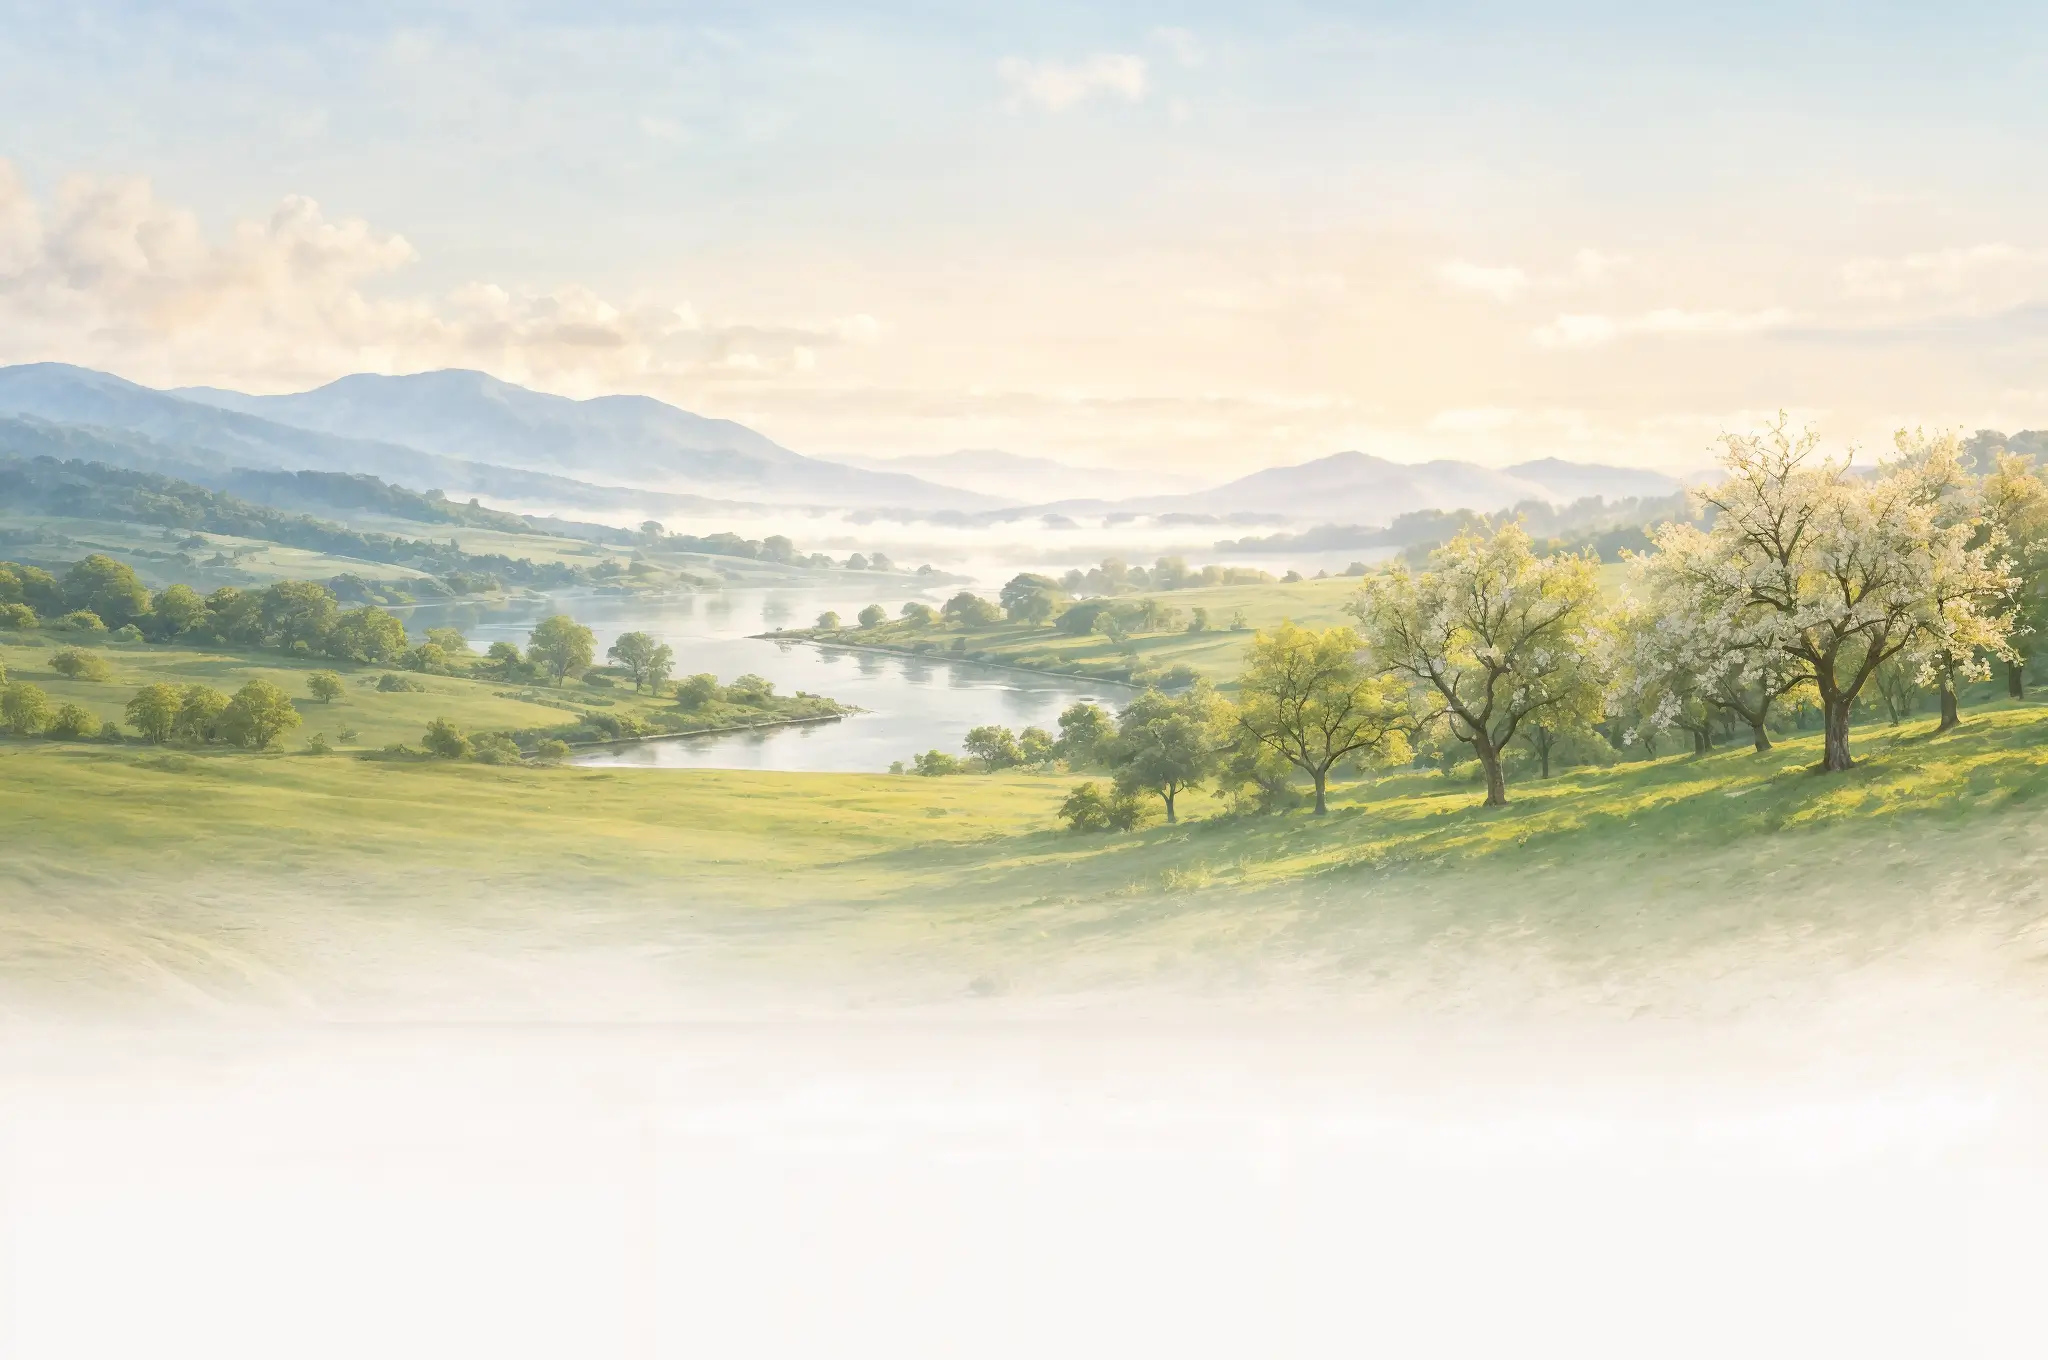
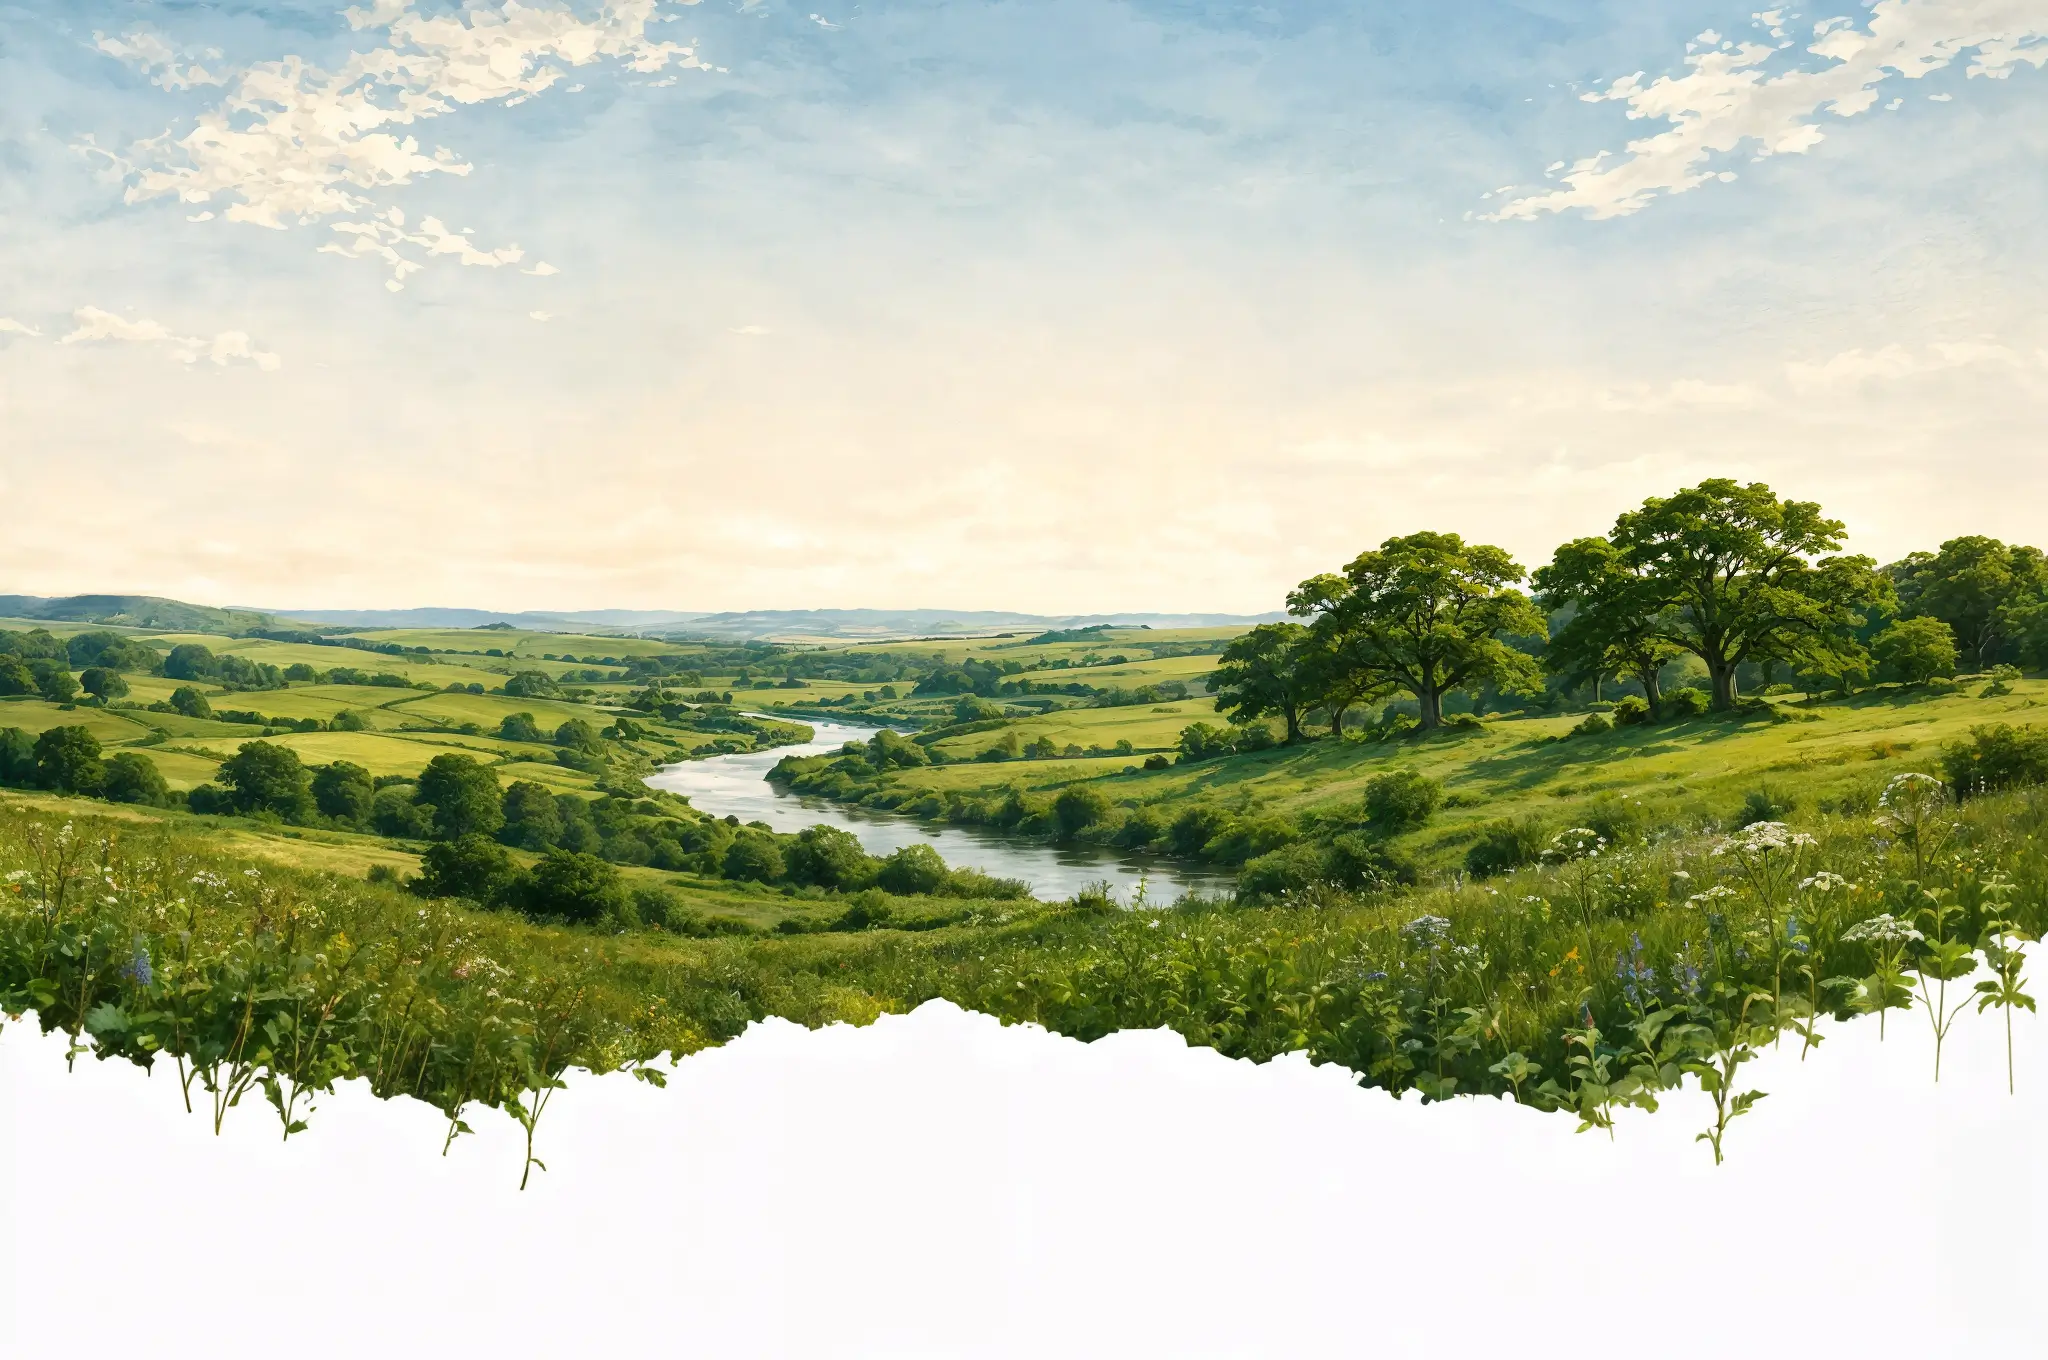
hero: new artwork with a torn painted edge, and no gradients anywhere
The painting now stops on an organic edge with stems hanging into flat white, so
the hero needs no fade, scrim or blur at all: the three .hero-blur layers are
gone. Copy is anchored to the horizon (27.9% of the width less the block height)
so it lands in the sky at every width, the secondary button gets a surface of
its own, and the partner link sits beside the buttons. On phones the sky is too
short for the copy, so the picture becomes a full-bleed band below it and its
torn edge runs straight into the page.

diff --git a/src/styles/global.css b/src/styles/global.css
@@ -143,33 +143,34 @@ section { padding: 108px 56px; }
 
 /* ── HERO ──
    Full-bleed landscape in the manner of a cinematic title card. .hero-media keeps
-   the artwork's own aspect ratio at the full width of the page, flush with the top
-   edge, so nothing is cropped and the white fade painted into the bottom of the
-   picture lands on the page background. The section is at least as tall as the
-   picture (66.41vw = 1360 / 2048). The copy sits high on the sky, on a top padding
-   that scales with the width so it keeps its place in the artwork, capped against
-   the viewport height so the buttons never fall out of the first screen. Replacing the
-   artwork means updating both ratios, and keeping a white bottom quarter. Three
-   progressively stronger blur layers, each masked to a band, soften the picture
-   under the copy. Portrait viewports fall back to a bottom-anchored cover crop. */
-.hero { position: relative; min-height: 66.41vw; display: flex; flex-direction: column; align-items: flex-start; justify-content: flex-start; text-align: left; padding: clamp(112px, 9vw, 172px) 56px 80px; background: var(--warm-white); overflow: hidden; }
+   the artwork's own aspect ratio (2048 / 1360 = 66.41vw) at the full width of the
+   page, flush with the top edge, so nothing is cropped and the section grows with
+   the picture. There is no gradient, scrim or blur anywhere: the painting itself
+   stops on a torn organic edge and gives way to flat white, which lands on the
+   page background. Any replacement must carry that edge and match both ratios.
+   The copy is anchored to the horizon: the top padding is the horizon's position
+   (27.9% of the width, being 42% of the picture's height) less the height of the
+   copy block, with a floor that clears the nav. So the block lands in the sky at
+   every width. Portrait viewports fall back to a cover crop. */
+.hero { position: relative; min-height: 66.41vw; display: flex; flex-direction: column; align-items: flex-start; justify-content: flex-start; text-align: left; padding: max(104px, calc(27.9% - 372px)) 56px 80px; background: var(--warm-white); overflow: hidden; }
 .hero-media { position: absolute; top: 0; left: 0; width: 100%; height: auto; aspect-ratio: 2048 / 1360; overflow: hidden; z-index: 0; background: linear-gradient(180deg, var(--cream) 0%, var(--sage-pale) 100%); }
 .hero-img { position: absolute; inset: 0; width: 100%; height: 100%; object-fit: cover; object-position: center top; display: block; }
-.hero-blur { position: absolute; inset: 0; background-image: var(--hero-image); background-size: cover; background-position: center top; pointer-events: none; }
-.hero-blur.is-1 { filter: blur(2px);  -webkit-mask-image: linear-gradient(to bottom, rgba(0,0,0,0) 56%, #000 70%, #000 100%); mask-image: linear-gradient(to bottom, rgba(0,0,0,0) 56%, #000 70%, #000 100%); }
-.hero-blur.is-2 { filter: blur(6px);  -webkit-mask-image: linear-gradient(to bottom, rgba(0,0,0,0) 72%, #000 84%, #000 100%); mask-image: linear-gradient(to bottom, rgba(0,0,0,0) 72%, #000 84%, #000 100%); }
-.hero-blur.is-3 { filter: blur(14px); -webkit-mask-image: linear-gradient(to bottom, rgba(0,0,0,0) 86%, #000 96%, #000 100%); mask-image: linear-gradient(to bottom, rgba(0,0,0,0) 86%, #000 96%, #000 100%); }
 .hero-inner { position: relative; z-index: 1; width: 100%; max-width: 1120px; margin: 0 auto; }
 .hero-blob { position: absolute; top: -10%; left: 50%; transform: translateX(-50%); width: 900px; height: 700px; background: radial-gradient(ellipse at center, rgba(74,122,37,0.10) 0%, transparent 65%); pointer-events: none; }
 .eyebrow { display: inline-flex; align-items: center; gap: 8px; background: var(--sage-pale); color: var(--sage); font-size: 11px; font-weight: 500; letter-spacing: 0.1em; text-transform: uppercase; padding: 7px 18px; border-radius: 100px; margin-bottom: 36px; border: 1px solid rgba(45,80,22,0.18); animation: up 0.7s ease both; }
 .eyebrow-dot { width: 6px; height: 6px; background: var(--sage-light); border-radius: 50%; animation: blink 2s ease infinite; }
-.hero .eyebrow { margin-bottom: 22px; text-decoration: none; }
-.hero .hero-note .link-quiet { color: #4A4A44; text-shadow: 0 0 12px rgba(255,255,255,0.8); }
-.hero h1 { font-family: 'Playfair Display', serif; font-size: clamp(40px, 4.8vw, 68px); font-weight: 400; line-height: 1.06; letter-spacing: -1.8px; color: var(--charcoal); max-width: 720px; margin-bottom: 20px; animation: up 0.7s 0.1s ease both; }
+.hero .eyebrow { margin-bottom: 12px; text-decoration: none; }
+/* On the landscape the secondary action needs a surface of its own. */
+.hero .btn-outline { background: rgba(255,255,255,0.88); border-color: rgba(28,28,26,0.14); backdrop-filter: blur(6px); }
+.hero .btn-outline:hover { background: #fff; border-color: var(--sage); }
+.hero .hero-note .link-quiet { color: #2F2F2B; text-decoration-color: rgba(47,47,43,0.4); }
+.hero h1 { font-family: 'Playfair Display', serif; font-size: clamp(38px, 3.6vw, 76px); font-weight: 400; line-height: 1.05; letter-spacing: -1.6px; color: var(--charcoal); max-width: 780px; margin-bottom: 12px; animation: up 0.7s 0.1s ease both; }
 .hero h1 em { font-style: italic; color: var(--sage); }
-.hero-sub { text-shadow: 0 0 14px rgba(255,255,255,0.75); font-size: 17px; font-weight: 400; color: #35352F; max-width: 470px; line-height: 1.6; margin-bottom: 34px; animation: up 0.7s 0.2s ease both; }
+.hero-sub { font-size: clamp(15.5px, 1.05vw, 19px); font-weight: 400; color: #35352F; max-width: 620px; line-height: 1.55; margin-bottom: 20px; animation: up 0.7s 0.2s ease both; }
 .hero-btns { display: flex; gap: 14px; align-items: center; flex-wrap: wrap; justify-content: flex-start; animation: up 0.7s 0.3s ease both; }
-.hero-note { margin-top: 24px; animation: up 0.7s 0.4s ease both; }
+.hero-actions { display: flex; align-items: center; gap: 12px 28px; flex-wrap: wrap; animation: up 0.7s 0.3s ease both; }
+.hero .hero-note { max-width: 300px; }
+.hero-note { margin-top: 0; animation: up 0.7s 0.4s ease both; }
 .scroll-indicator { position: absolute; bottom: 48px; left: 50%; transform: translateX(-50%); display: flex; flex-direction: column; align-items: center; gap: 8px; animation: up 0.7s 0.6s ease both; }
 .scroll-line { width: 1px; height: 52px; background: linear-gradient(to bottom, rgba(107,107,101,0.5), transparent); animation: grow 1.8s ease-in-out infinite; }
 
@@ -662,11 +663,13 @@ section { padding: 108px 56px; }
   .hamburger { display: flex; }
   .site-nav { padding: 16px 24px; }
   section { padding: 80px 24px; }
-  .hero { padding: 120px 24px 56px; min-height: 86vh; min-height: 86svh; justify-content: flex-end; }
-  .hero-media { height: 100%; aspect-ratio: auto; }
-  .hero-img { object-position: center bottom; }
-  .hero-blur { background-position: center bottom; }
-    .hero h1 { letter-spacing: -1.5px; }
+  .hero { padding: 116px 24px 0; min-height: 0; justify-content: flex-start; }
+  .hero-inner { order: 1; }
+  .hero-media { position: relative; order: 2; width: calc(100% + 48px); margin: 36px -24px 0; height: auto; aspect-ratio: 2048 / 1360; }
+  .hero-img { position: absolute; object-position: center top; }
+  .hero-sub { max-width: none; }
+  .hero .hero-note { max-width: none; }
+      .hero h1 { letter-spacing: -1.5px; }
   .logos-strip { padding: 24px; gap: 28px; }
   .credbar { padding: 24px; gap: 20px; flex-direction: column; }
   .credbar .cred-divider { display: none; }
